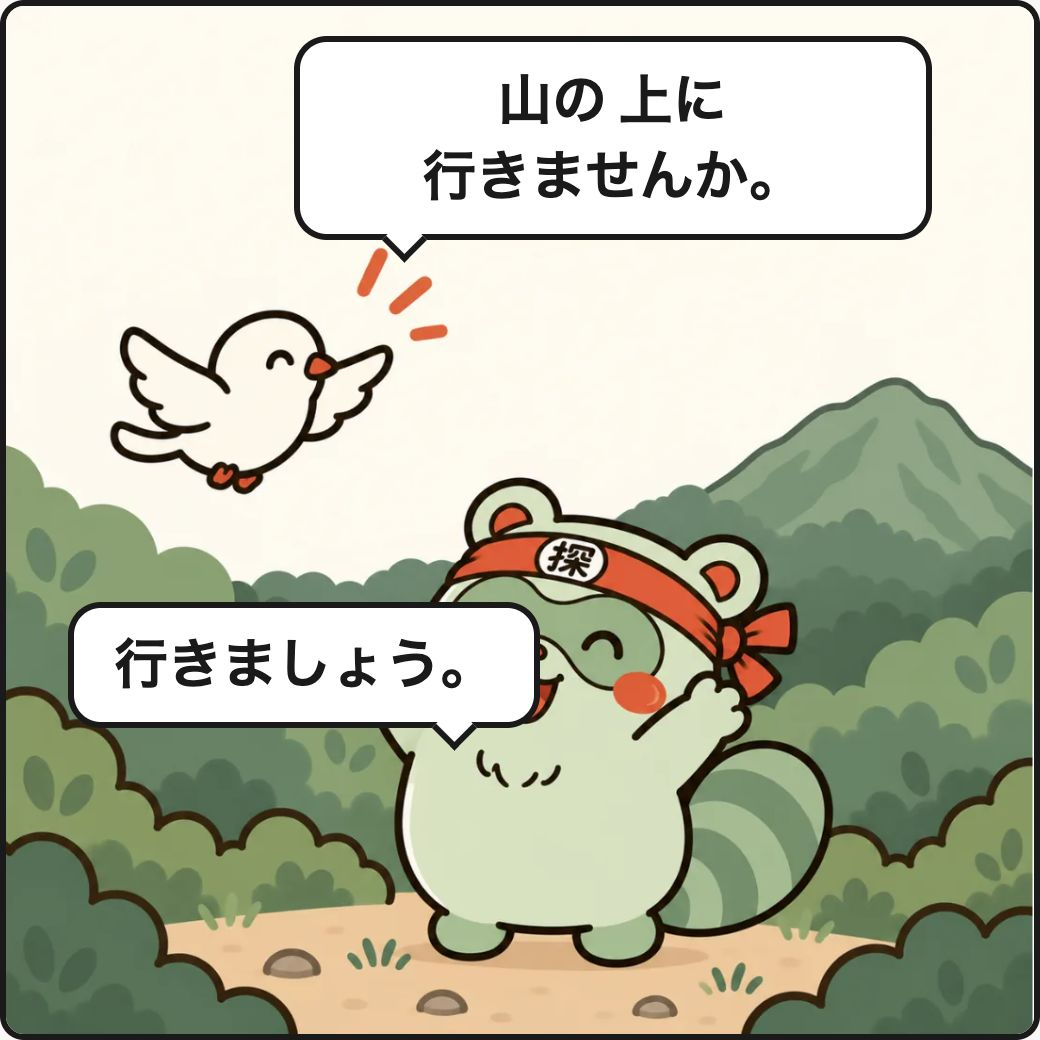
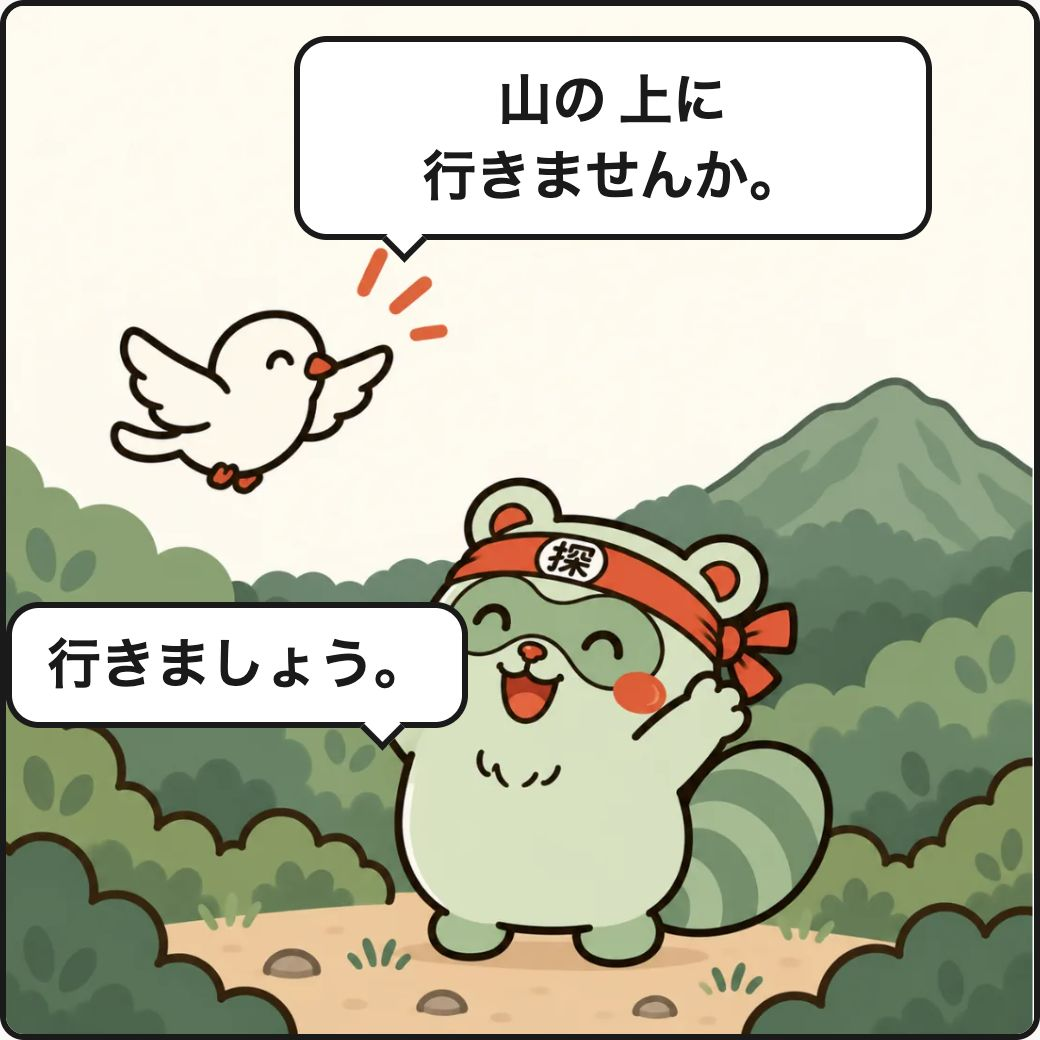
fix(stories): take two speech bubbles off a face and off each other
Episode 1, P5: 行きましょう。 covered Tan's left eye on the page, in
e5.jpg and in the link card's source. strips/ep-01/script.json already
had the fix (x 0, w 45, edited 2026-09-16, which the p5fix square was
built from), but data/stories/ep-01.ts was imported on 2026-09-14 with
x 6, w 46 and never re-imported. `pnpm stories:ship 1` brings it across.

Episode 3, P2: わたしは 先生です。 needed 49 of its 50cqw of text width.
The page and e2.jpg kept it on one line, a 0.7% gap above Tan's bubble.
The strip's square export, with fixed-pixel padding, wrapped it, and
はじめまして。 タンです。 then covered its second line. The bubble is
now 62% wide, one line in every renderer, and Tan's bubble moves down
from 18% to 22%. The gap is 4.6%, measured in Hiragino and Noto Sans JP.

Only e5.jpg and e2.jpg are new. The re-import also re-encoded e-panels
and pN.jpg with no change above 40/255, and overwrote both og.jpg cards
with the strip square. Those files are left as they were.

Episode 1's link card is drawn from e1..e6.jpg again, so the
render-share-cards refusal for panel 5 and its header note are gone.

Changed region(s): [[0.0, 0.5538, 0.5231, 0.7385]]

diff --git a/scripts/render-share-cards.ts b/scripts/render-share-cards.ts
@@ -35,10 +35,6 @@
  *
  * `--square` takes the panels from the strip pipeline's composited square
  * instead (strips/ep-NN/out/<slug>-square.png, 3x2 panels at fixed positions).
- * Episode 1 needs it: its P5 bubble was moved off Tan's face in the square
- * only (2026-10-13), and data/stories/ep-01.ts, so e5.jpg, still has it over
- * the face. Re-render episode 1 from e-panels only after the bubble is fixed in
- * script.json and re-imported.
  *
  * Output is a JPEG under ~300 kB: quality starts at 88 and steps down until it
  * fits. Commit the files; nothing renders at request time.
@@ -346,9 +342,6 @@ async function main(): Promise<void> {
       if (!EPISODE_CARDS[slug] && !arg('--panels')) console.log(`  note: ${slug} has no EPISODE_CARDS entry; using panels 1-3. Look at the card.`);
       const square = wanted.length === 1 ? arg('--square') : undefined;
       if (square && !existsSync(square)) throw new Error(`--square ${square} does not exist`);
-      if (slug === 'tan-climbs-the-mountain' && !square && panels.includes(5)) {
-        throw new Error('Episode 1 panel 5 still has the bubble over Tan\'s face in e5.jpg: pass --square <the P5-fixed square>, or other panels.');
-      }
       cards.push(episodeCard(episode, panels, square));
     } else if (pageIds.includes(target as ShareCardId)) {
       const id = target as ShareCardId;

diff --git a/data/stories/ep-03.ts b/data/stories/ep-03.ts
@@ -40,8 +40,8 @@ export const EPISODE: Episode = {
     beat: "The owl teacher at the door",
     art: "/stories/tan-goes-to-school/p2.webp",
     lines: [
-      { speaker: "sensei", ja: "わたしは 先生です。", en: "I am the teacher.", bubble: { x: 22, y: 5, w: 56, tail: "bl" } },
-      { speaker: "tan", ja: "はじめまして。 タンです。", en: "Nice to meet you. I am Tan.", bubble: { x: 48, y: 18, w: 48, tail: "br" } },
+      { speaker: "sensei", ja: "わたしは 先生です。", en: "I am the teacher.", bubble: { x: 19, y: 5, w: 62, tail: "bl" } },
+      { speaker: "tan", ja: "はじめまして。 タンです。", en: "Nice to meet you. I am Tan.", bubble: { x: 48, y: 22, w: 48, tail: "br" } },
     ],
   },
   {

diff --git a/data/stories/ep-01.ts b/data/stories/ep-01.ts
@@ -64,7 +64,7 @@ export const EPISODE: Episode = {
     art: "/stories/tan-climbs-the-mountain/p5.webp",
     lines: [
       { speaker: "chun", ja: "山の 上に 行きませんか。", en: "Shall we go to the top of the mountain?", bubble: { x: 28, y: 3, w: 62, tail: "bl" } },
-      { speaker: "tan", ja: "行きましょう。", en: "Let's go.", bubble: { x: 6, y: 58, w: 46, tail: "br" } },
+      { speaker: "tan", ja: "行きましょう。", en: "Let's go.", bubble: { x: 0, y: 58, w: 45, tail: "br" } },
     ],
   },
   {
